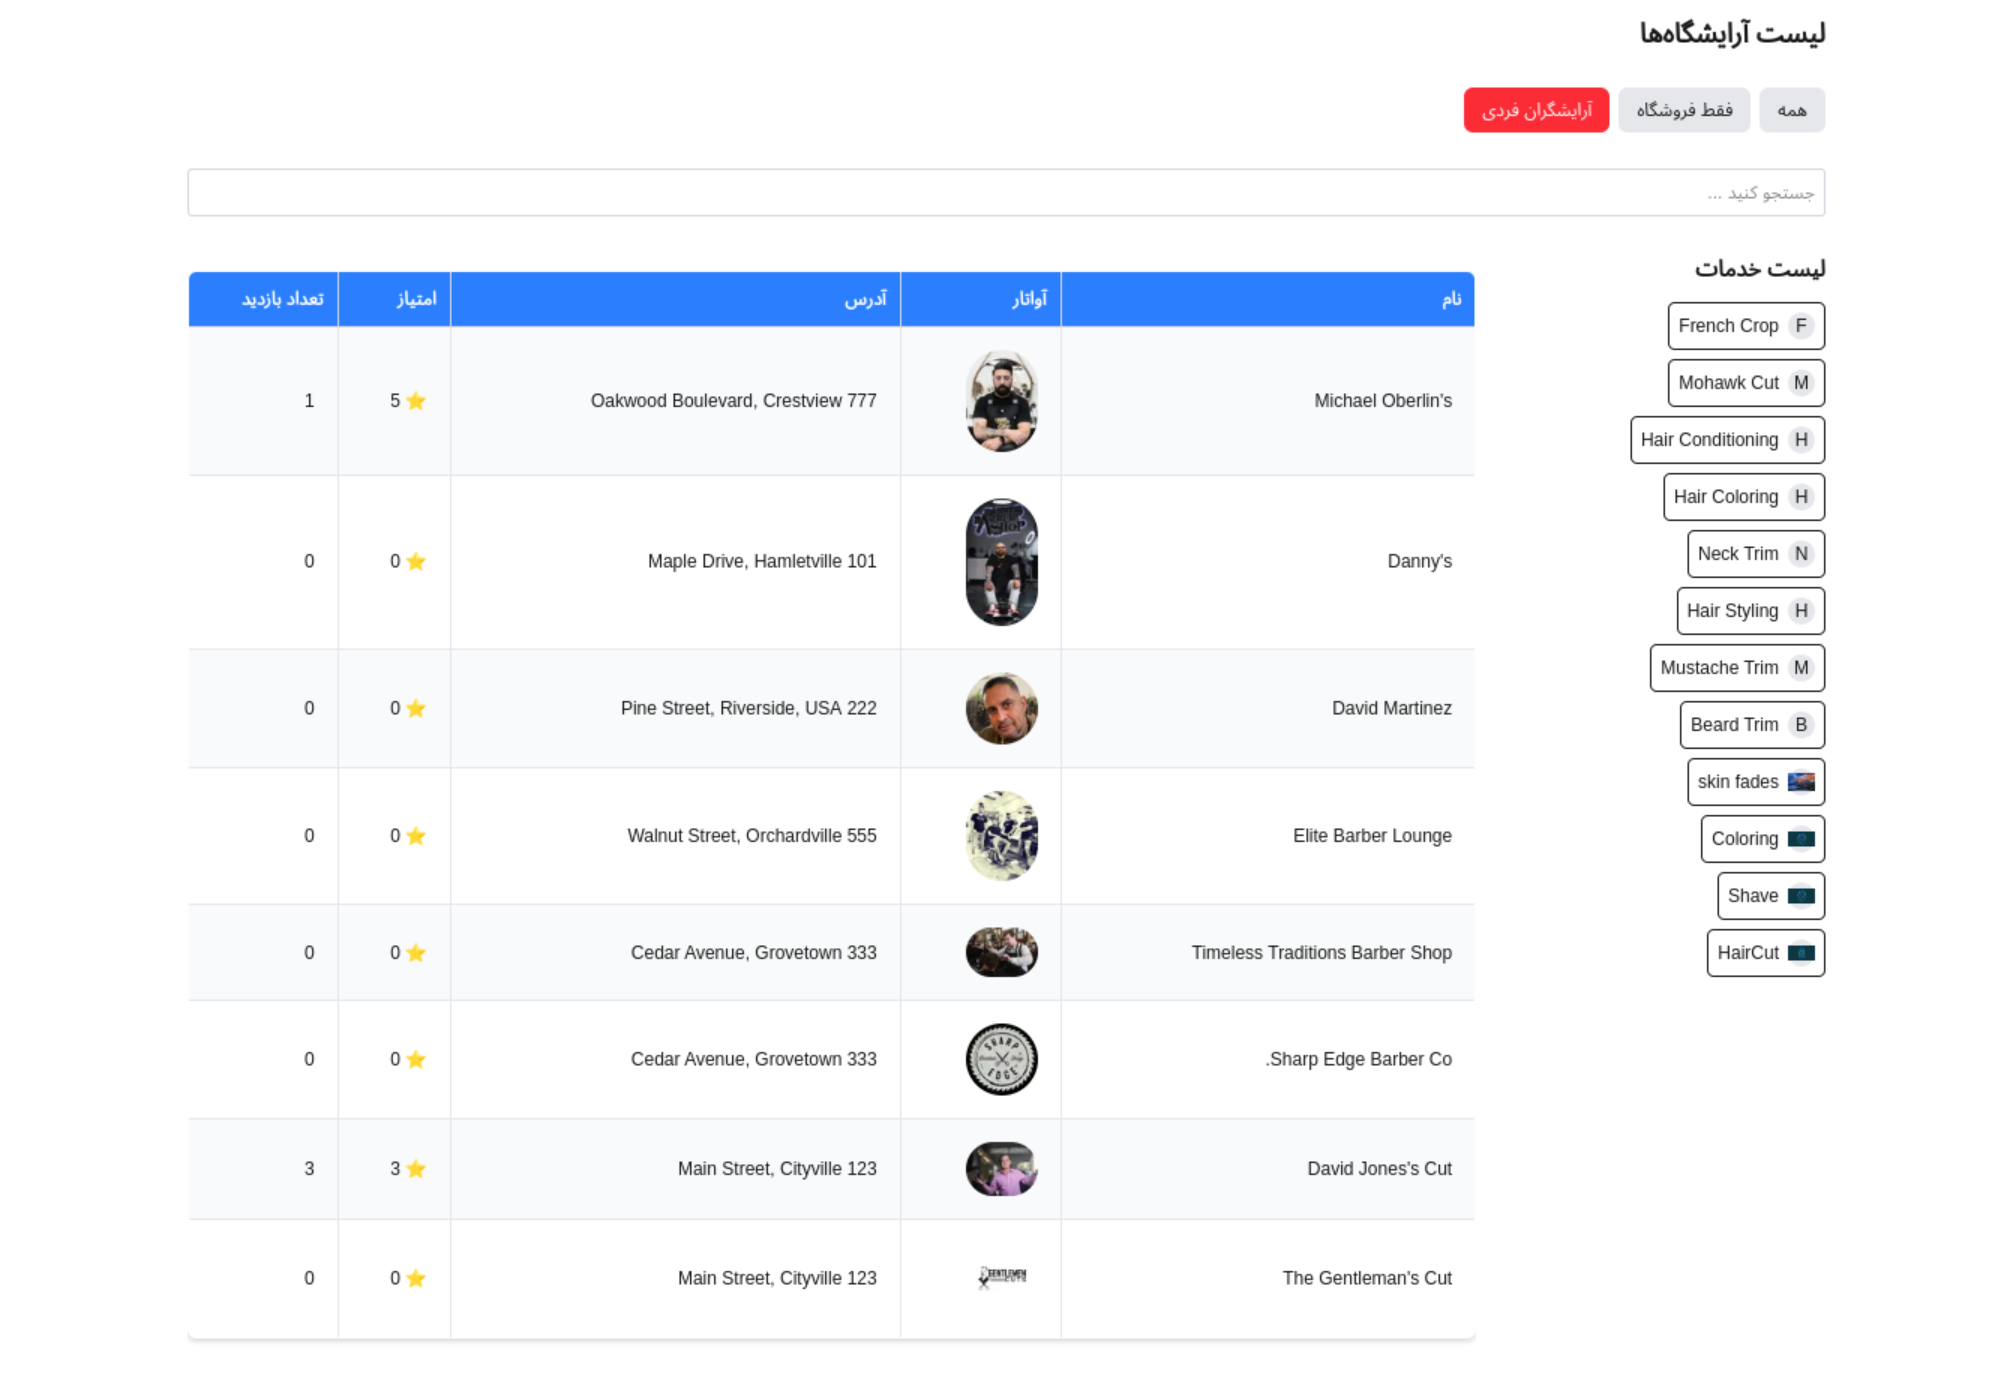
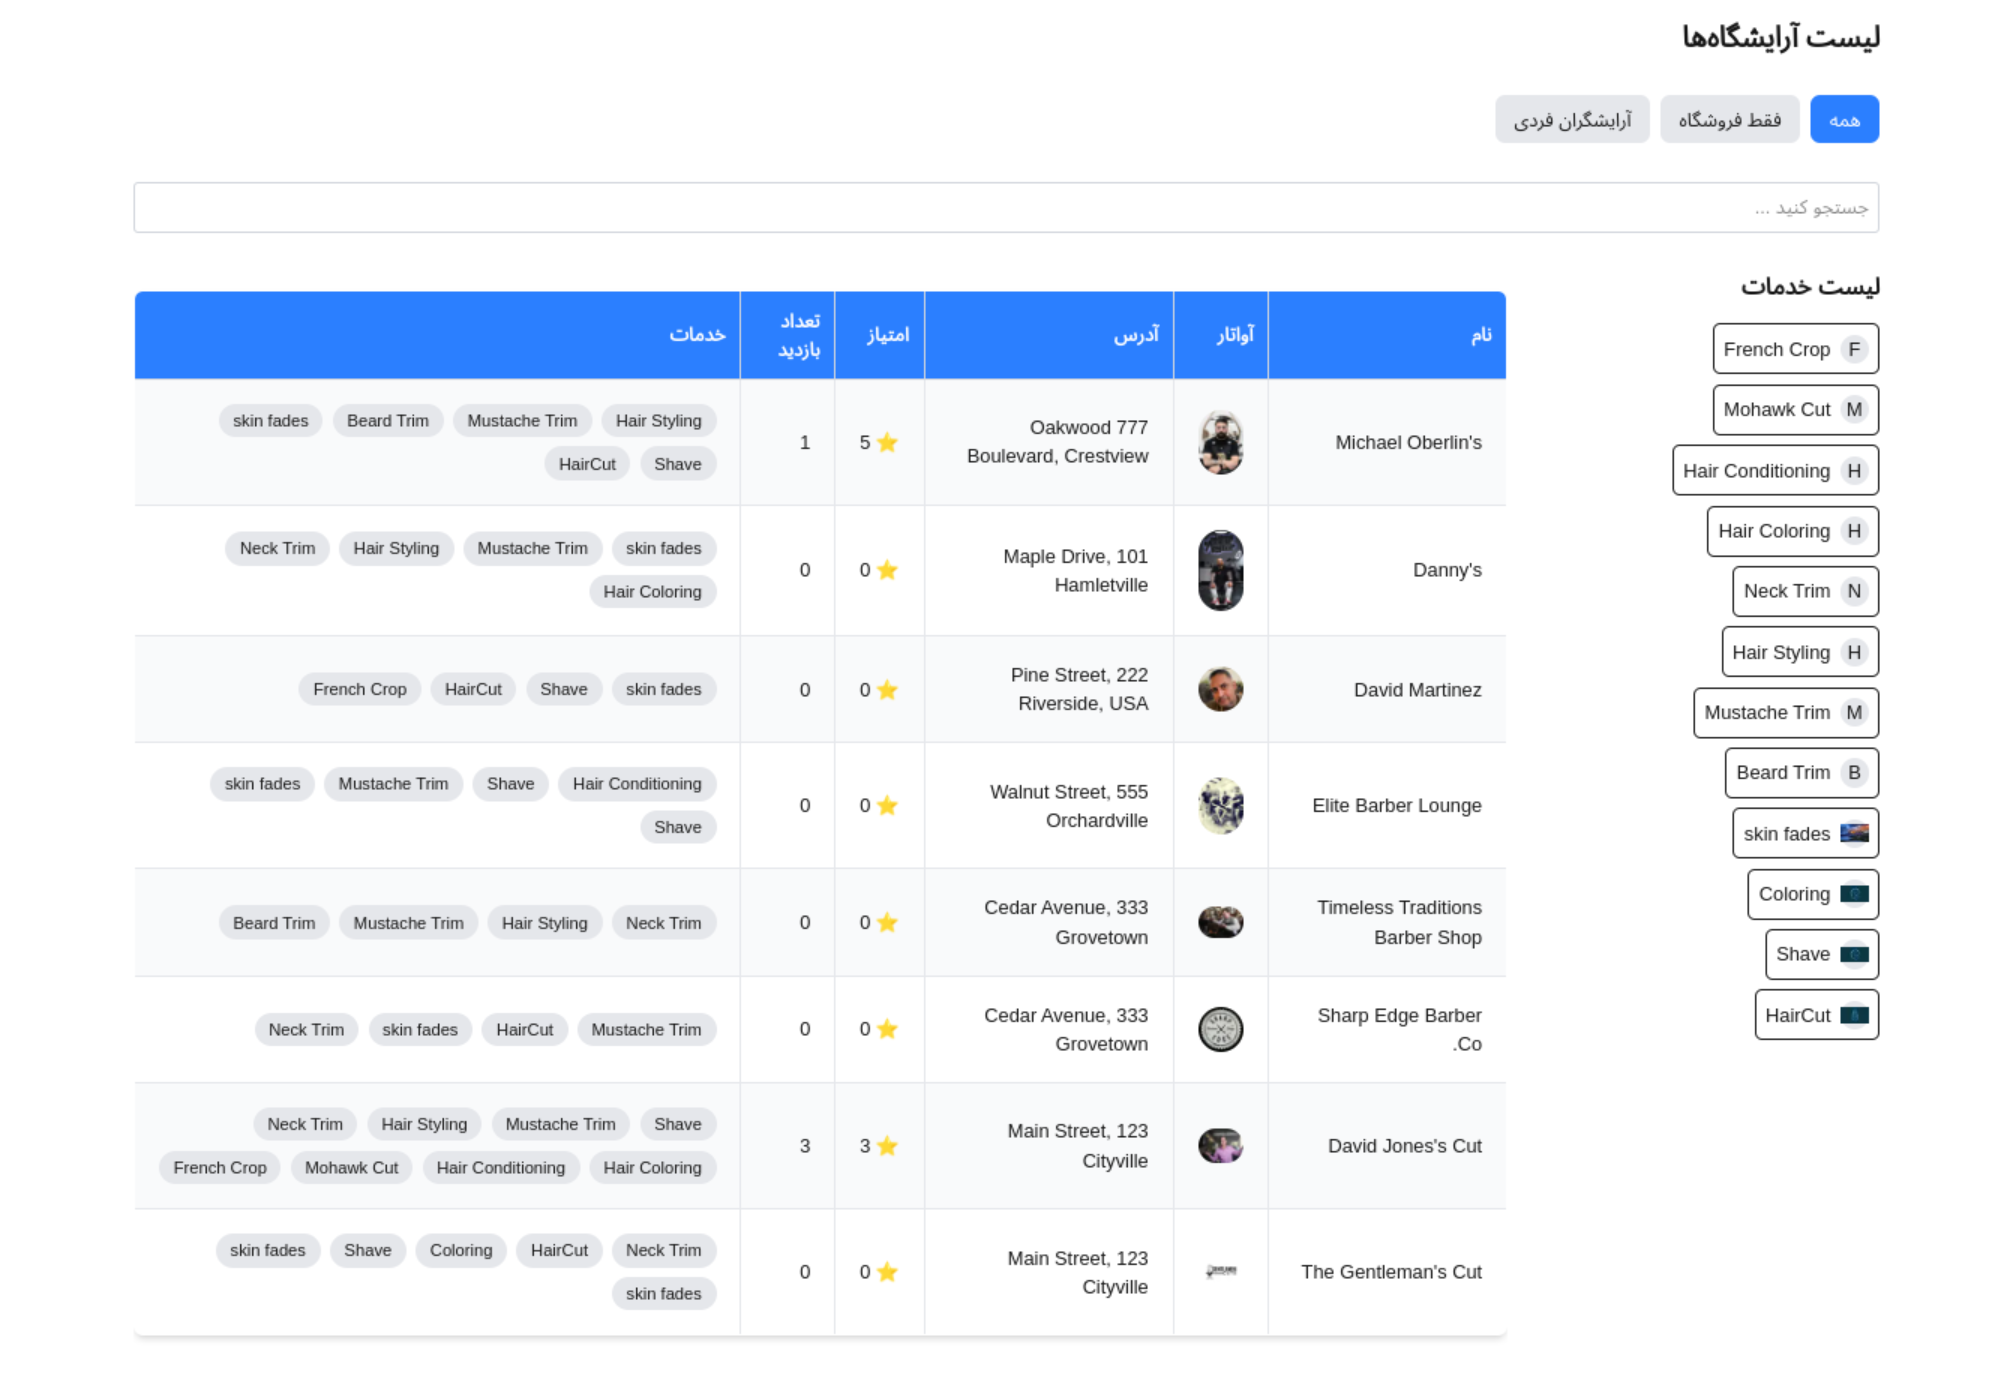
feat (main): add services tag

diff --git a/src/components/SmartBarberField.tsx b/src/components/SmartBarberField.tsx
@@ -10,6 +10,7 @@ interface SmartBarberFieldProps {
 const SmartBarberField: React.FC<SmartBarberFieldProps> = ({ item, field }) => {
   const fieldName = field.name.toLowerCase();
 
+  // each case can be a component
   const fieldValue = () => {
     switch (fieldName) {
       case "avatar":
@@ -29,6 +30,20 @@ const SmartBarberField: React.FC<SmartBarberFieldProps> = ({ item, field }) => {
           <div className="flex items-center gap-1">
             <span className="text-yellow-500">⭐</span>
             {item.rate}
+          </div>
+        );
+
+      case "services":
+        return (
+          <div className="flex gap-2 flex-wrap">
+            {item.services.map((service, index) => (
+              <span
+                key={index}
+                className="px-3 py-1 text-sm bg-gray-200 rounded-full"
+              >
+                {service}
+              </span>
+            ))}
           </div>
         );
 

diff --git a/src/config/system.config.ts b/src/config/system.config.ts
@@ -6,6 +6,7 @@ export const SYSTEM_FEATURES = Object.freeze({
   ADDRESS: "ADDRESS",
   RATE: "RATE",
   REVIEWS_COUNT: "REVIEWS_COUNT",
+  SERVICES: "SERVICES",
 });
 
 export const STATUSES = Object.freeze({
@@ -55,6 +56,12 @@ export const LIST_FIELDS = Object.freeze({
     name: SYSTEM_FEATURES.REVIEWS_COUNT,
     title: "تعداد بازدید",
     order: 50,
+    component: SmartBarberField,
+  },
+  SERVICES: {
+    name: SYSTEM_FEATURES.SERVICES,
+    title: "خدمات",
+    order: 60,
     component: SmartBarberField,
   },
 });

diff --git a/src/components/BarberList.tsx b/src/components/BarberList.tsx
@@ -1,9 +1,12 @@
+import BaseTab from "./BaseTab";
 import SearchBar from "./SearchBar";
 import BarberTable from "./BarberTable";
+
 import { Barbers } from "@/types/barbers";
 import { ServiceResponse } from "@/types/services";
+
 import ServiceFilter from "./ServiceFilter";
-import BaseTab from "./BaseTab";
+
 import { STATUSES } from "@/config/system.config";
 
 interface BarberListProps {

diff --git a/src/app/barbers/page.tsx b/src/app/barbers/page.tsx
@@ -1,7 +1,8 @@
-import { getBarbers, getServices } from "@/services";
-import BarberList from "@/components/BarberList";
 import { Suspense } from "react";
+import { getBarbers, getServices } from "@/services";
+
 import Loading from "../loading";
+import BarberList from "@/components/BarberList";
 
 async function Page({
   searchParams,

diff --git a/src/components/BarberTable.tsx b/src/components/BarberTable.tsx
@@ -1,6 +1,5 @@
-import { LIST_FIELDS } from "@/config/system.config";
 import { Barber } from "@/types/barbers";
-import React from "react";
+import { LIST_FIELDS } from "@/config/system.config";
 
 function BarberTable({ results }: { results: Barber[] }) {
   return (

diff --git a/src/types/barbers.ts b/src/types/barbers.ts
@@ -13,6 +13,7 @@ export interface Barber {
   rate: number;
   review_count: number;
   slug: string;
+  services: string[];
 }
 
 export interface Barbers {

diff --git a/src/app/error.tsx b/src/app/error.tsx
@@ -1,4 +1,3 @@
-// app/error.js
 "use client";
 
 import React from "react";
